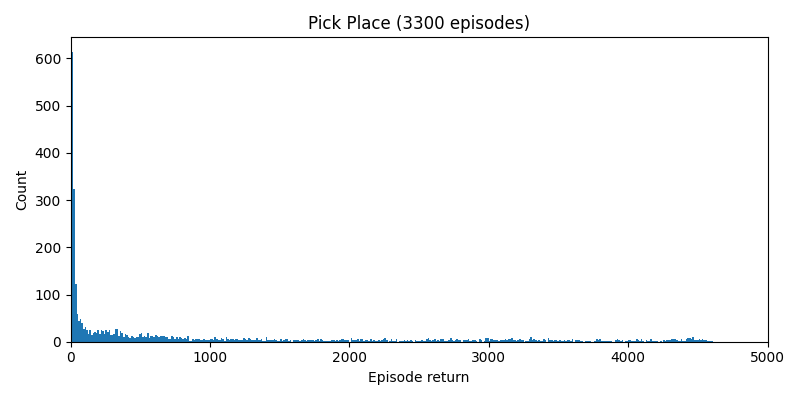
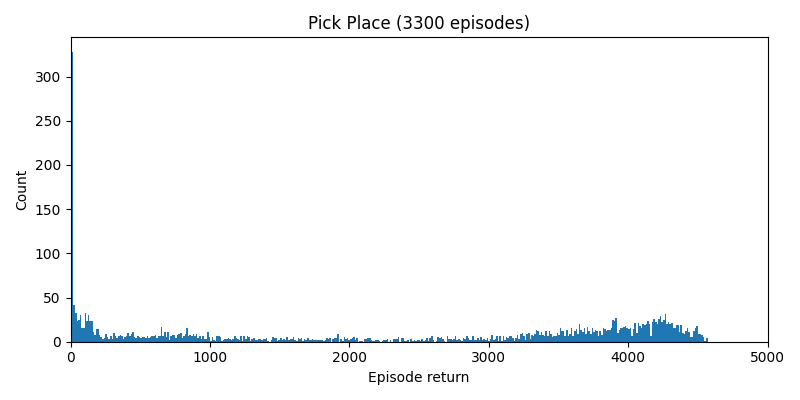
fixes: tdmpc nan_to_num + offline mw # eps

diff --git a/dataloader.py b/dataloader.py
@@ -65,8 +65,8 @@ class OfflineDataset(Dataset):
 	def _partition_episodes(self, datas, cumrews):
 		if self._cfg.multitask or self._cfg.get('use_all', False):
 			return datas, cumrews, range(len(datas)), None, None, None
-		assert len(datas) == int(1650*self._cfg.fraction), 'Unexpected number of episodes: {}'.format(len(datas))
-		train_episodes = int(1500*self._cfg.fraction)
+		assert len(datas) in {int(1650*self._cfg.fraction), int(3300*self._cfg.fraction)}, 'Unexpected number of episodes: {}'.format(len(datas))
+		train_episodes = int((3280 if self._cfg.task.startswith('mw-') else 1500)*self._cfg.fraction)
 		train_idxs = torch.topk(cumrews, k=train_episodes, dim=0, largest=False).indices
 		print('Training on bottom {} episodes'.format(train_episodes))
 		print(f'Training returns: [{cumrews[train_idxs].min():.2f}, {cumrews[train_idxs].max():.2f}]')

diff --git a/evaluate_open_loop.py b/evaluate_open_loop.py
@@ -72,7 +72,7 @@ def open_loop(cfg: dict):
 		print('Reward:', ep_reward)
 		pred_frames = torch.stack(pred_frames).mul(255).byte()
 		gt_frames = torch.from_numpy(np.array(gt_frames))
-		imageio.mimsave(Path(cfg.logging_dir) / f'openloop_{i}.gif', torch.cat((pred_frames, gt_frames), dim=2))
+		imageio.mimsave(Path(cfg.logging_dir) / 'openloop' / f'openloop_{cfg.task.replace("-", "_")}_horizon{cfg.horizon}_{i}.gif', torch.cat((pred_frames, gt_frames), dim=2))
 		episode_rewards.append(ep_reward)
 	episode_rewards = np.array(episode_rewards)
 	print('Mean reward:', episode_rewards.mean())

diff --git a/algorithm/tdmpc.py b/algorithm/tdmpc.py
@@ -167,7 +167,7 @@ class TDMPC():
 				actions = torch.cat([actions, pi_actions], dim=1)
 
 			# Compute elite actions
-			value = self.estimate_value(z, actions, task_vec, horizon)
+			value = self.estimate_value(z, actions, task_vec, horizon).nan_to_num_(0)
 			elite_idxs = torch.topk(value.squeeze(1), self.cfg.num_elites, dim=0).indices
 			elite_value, elite_actions = value[elite_idxs], actions[:, elite_idxs]
 
